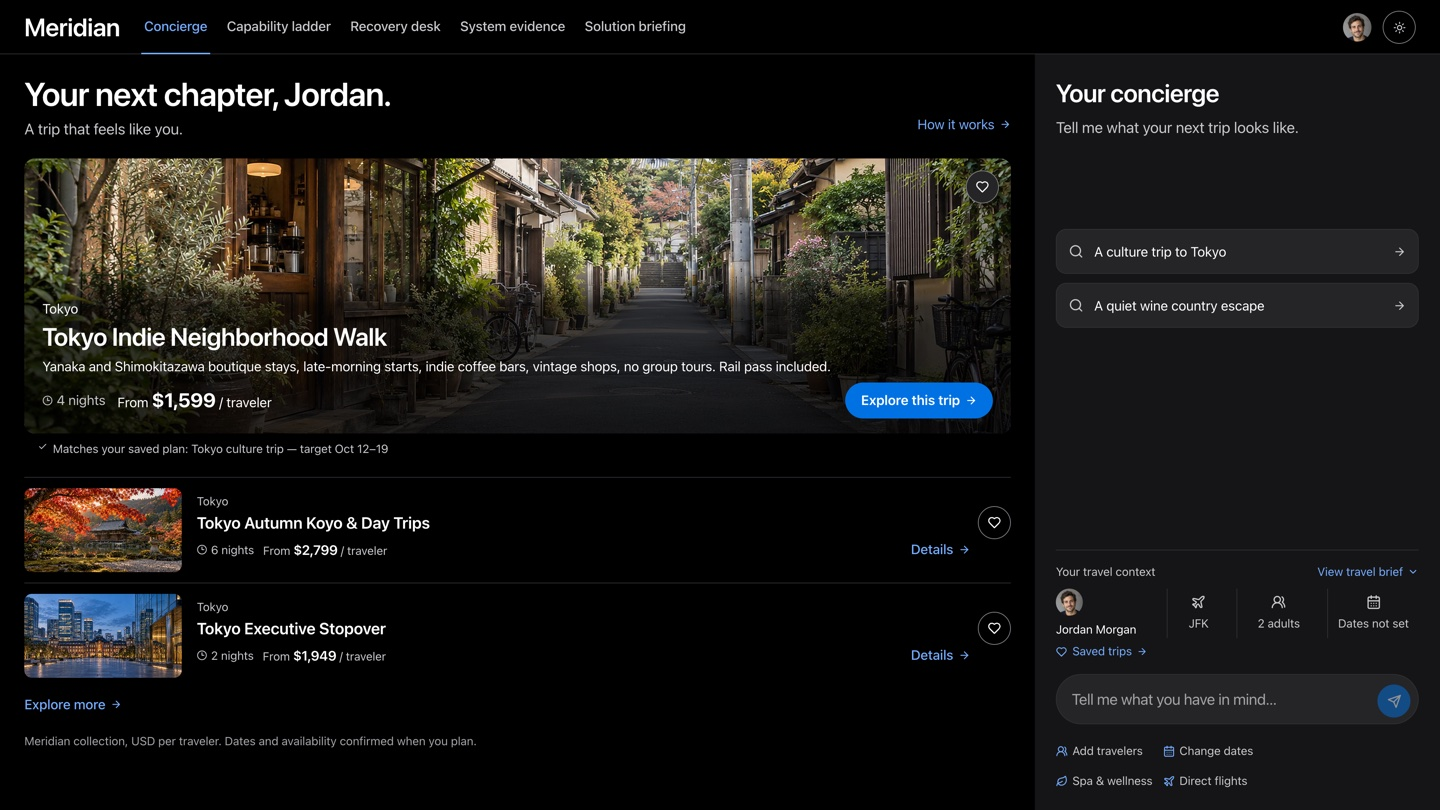
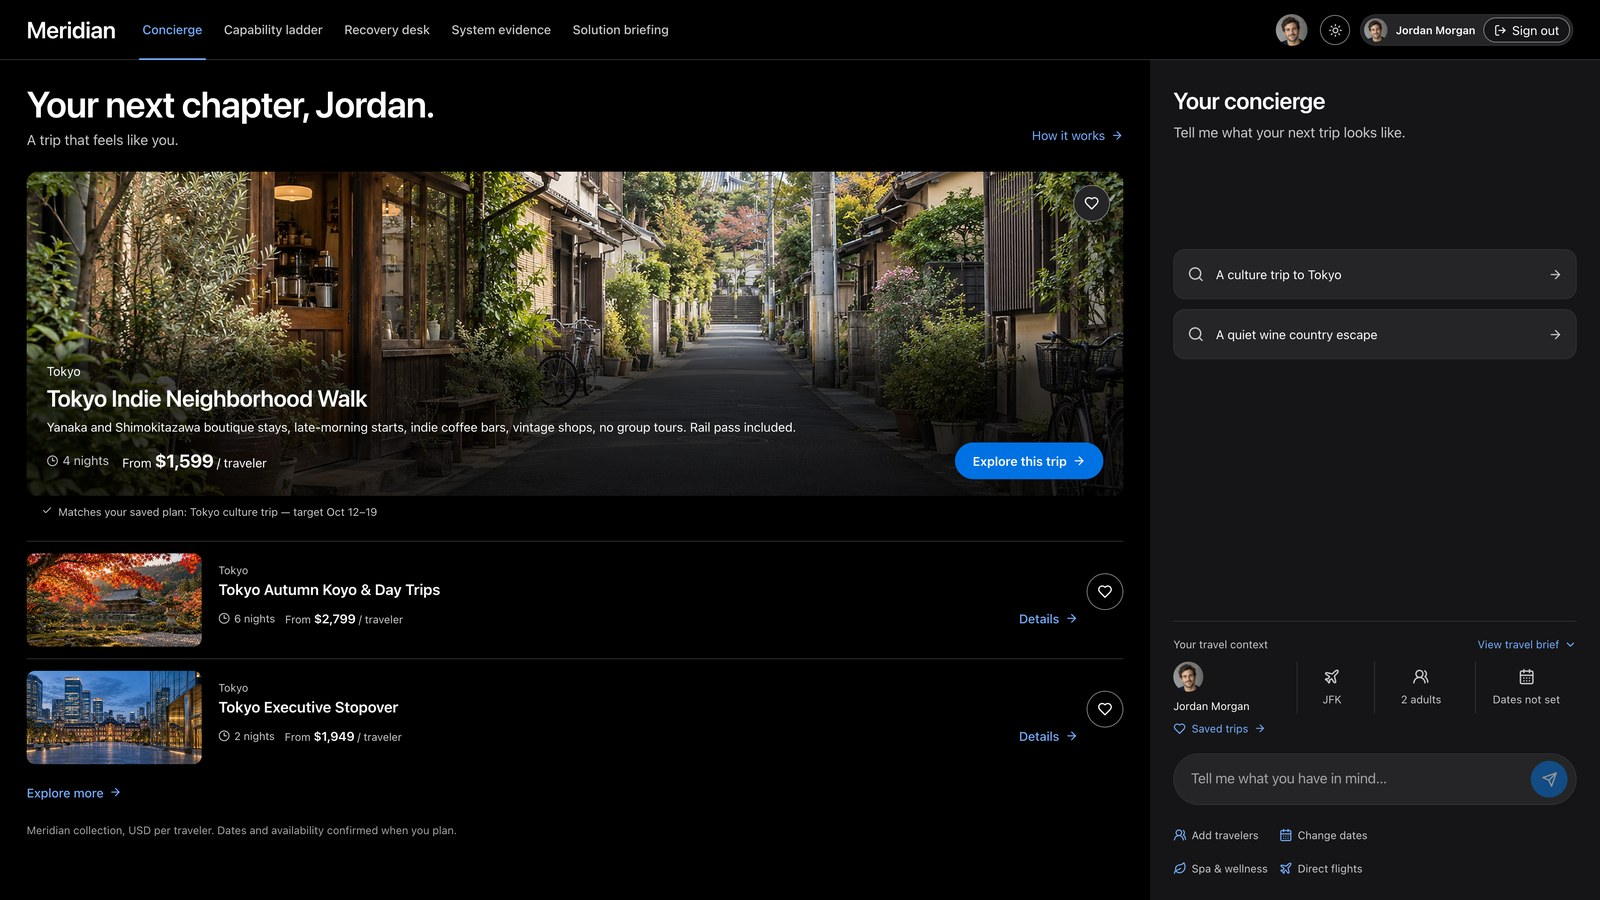
Show the signed-in app in the README screenshots
The Concierge, Solution briefing and Recovery desk images are new
captures of the hosted site signed in as the sample traveler: the
header account control, the Gateway checking access on every call,
and a recovery that was stopped while waiting and resumed from its
saved step.

diff --git a/README.md b/README.md
@@ -18,7 +18,7 @@ The data is sample travel packages and one fictional traveler, Jordan Morgan.
 Holds and confirmations change rows in Meridian's own database only. There is
 no supplier, airline or payment integration.
 
-![Meridian Concierge with destination photography, sample trip prices, and the traveler's saved preferences and budget](meridian/docs/meridian-showcase.jpg)
+![Meridian Concierge, signed in as the sample traveler: destination photography, sample trip prices and the traveler's saved context](meridian/docs/meridian-showcase.jpg)
 
 ## What it demonstrates
 

diff --git a/meridian/README.md b/meridian/README.md
@@ -105,7 +105,7 @@ A Data API transaction keeps the RLS role and traveler scope together for one
 unit of work; it is not long-lived workflow state. See
 [docs/STATEFUL_ARCHITECTURE.md](docs/STATEFUL_ARCHITECTURE.md).
 
-![Recovery desk paused at a saved step: the shortlist saved to Aurora and the journey continuity panel](docs/meridian-recovery.jpg)
+![Recovery desk after a stopped and resumed recovery: each step saved in Aurora, the hold allowed by Cedar, and the journey continuity panel](docs/meridian-recovery.jpg)
 
 ## Recovery behavior
 
